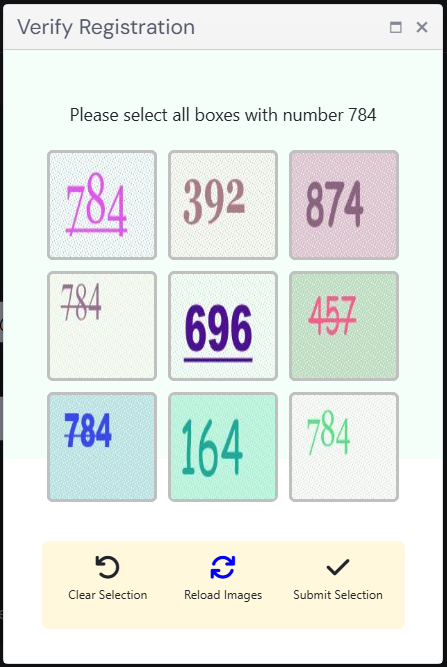
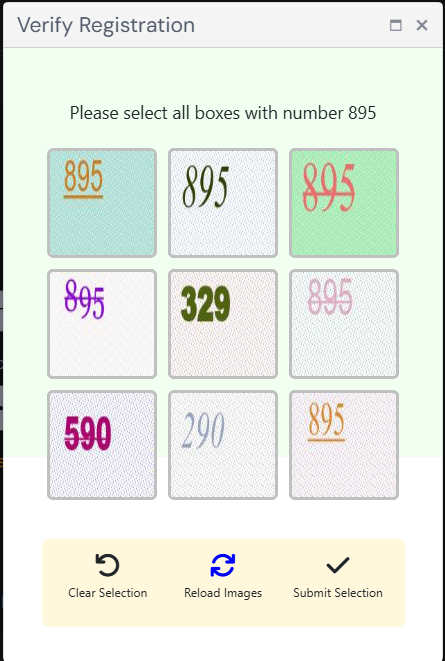
Adjust grid region top edge up for more first-row headroom (no more clipped top row)

diff --git a/src/features/captcha-solver/OcrSolver.ts b/src/features/captcha-solver/OcrSolver.ts
@@ -38,9 +38,9 @@ const UPSCALE = 4;
  */
 export const DEFAULT_GRID_REGION: FractionalRegion = {
   left: 0.08,
-  top: 0.24,
+  top: 0.18,
   width: 0.84,
-  height: 0.52,
+  height: 0.56,
 };
 
 export interface OcrSolverOptions {